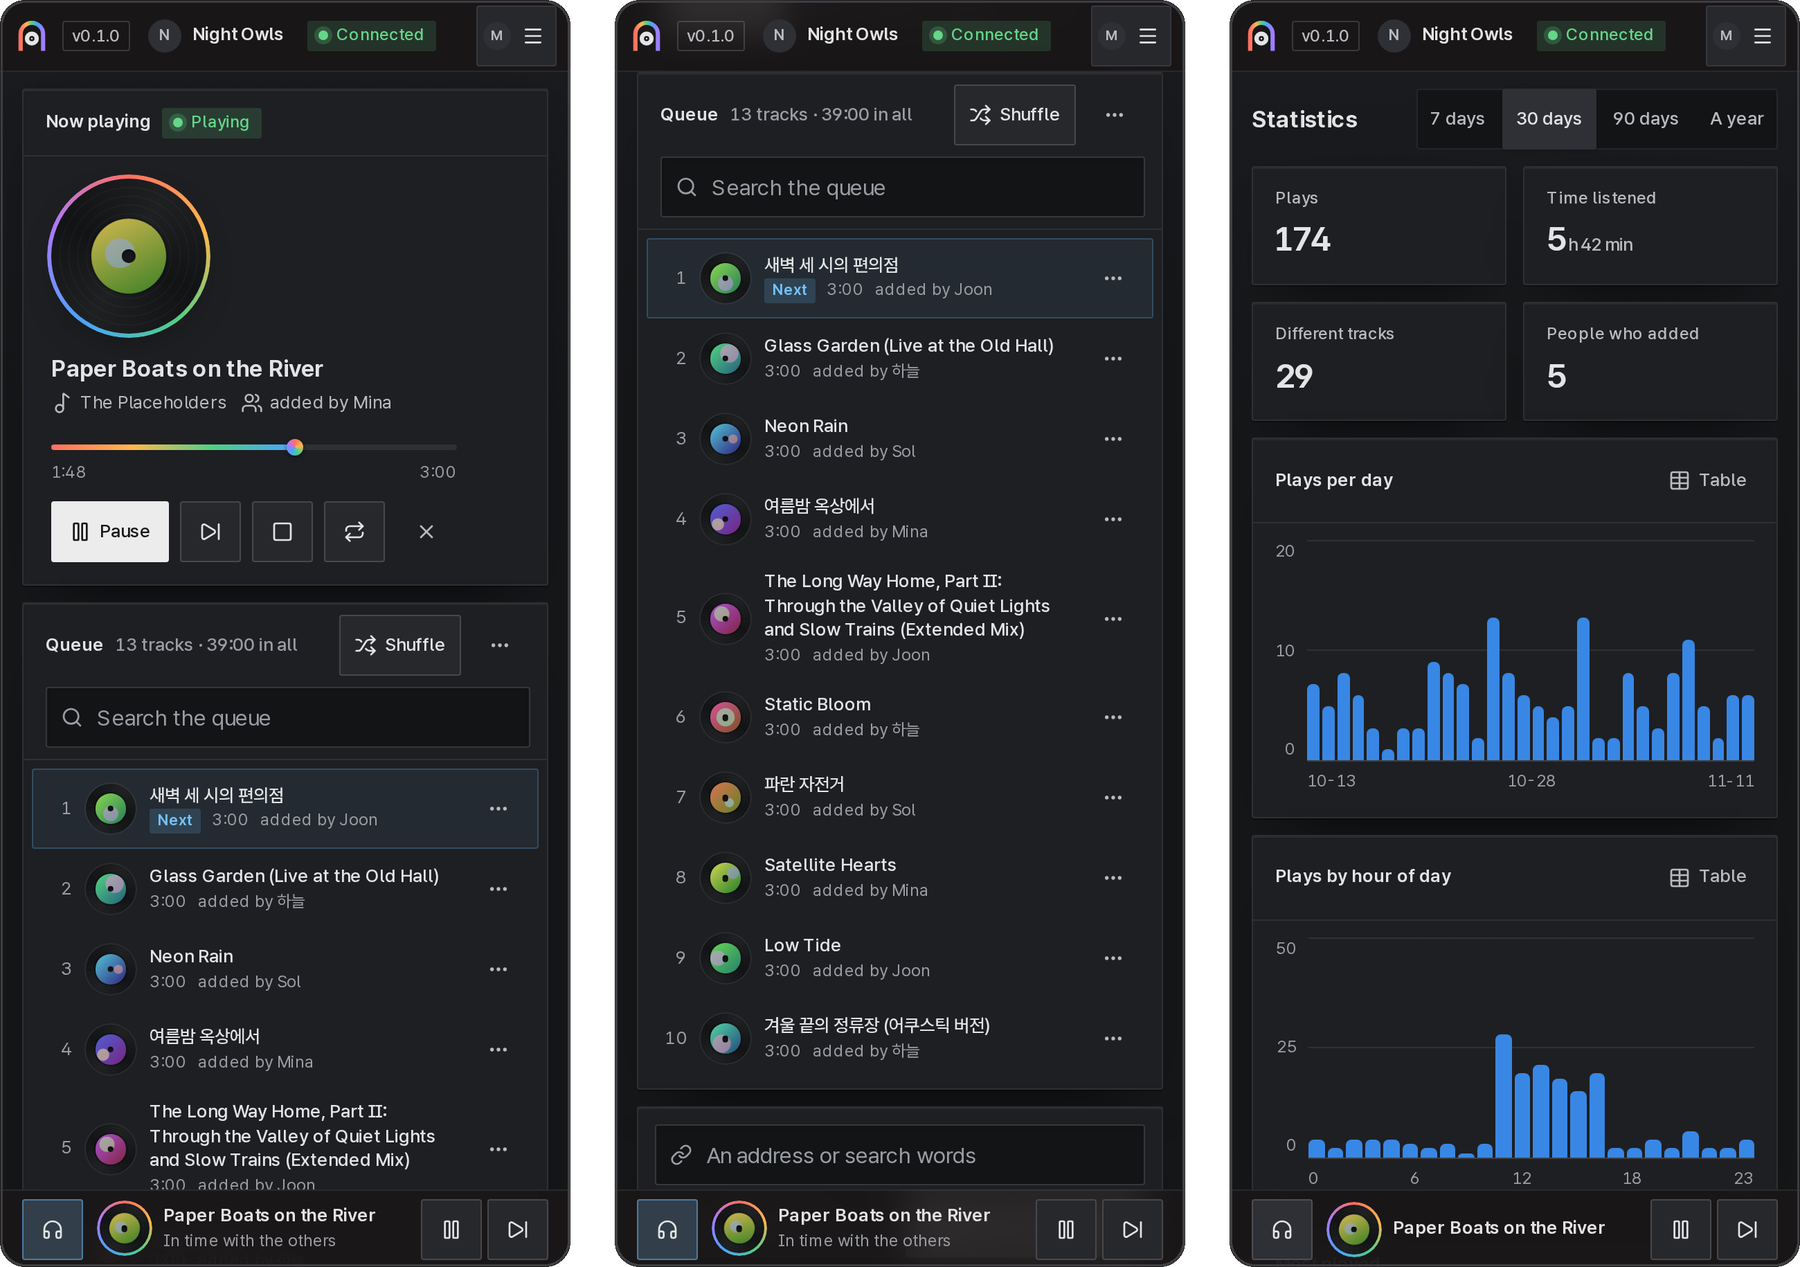
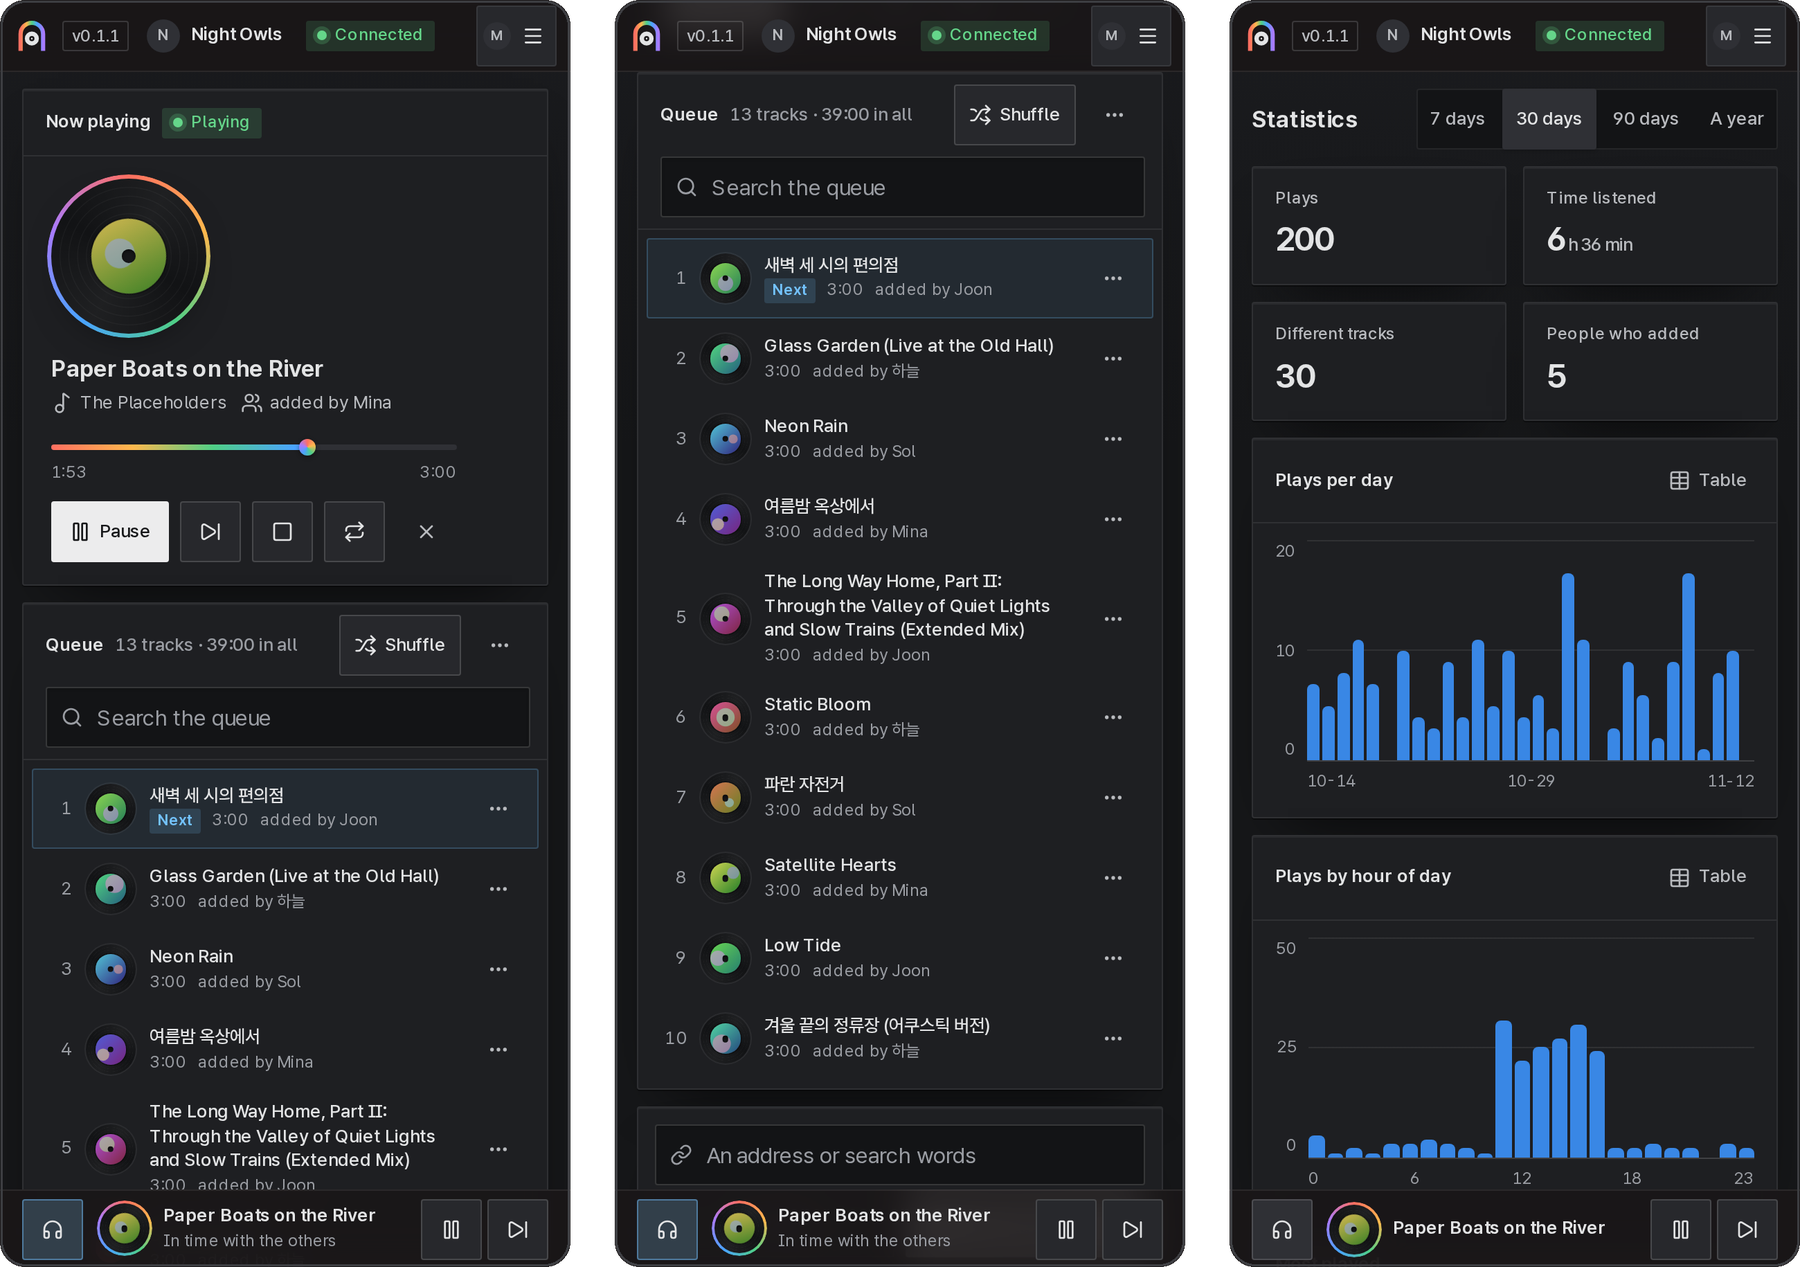
Release 0.1.1
The image half the size, the panel's first visit a seventh of what it was, live updates compressed, accessibility checked on every walk, and one server's work and failures kept from the others. CHANGELOG.md has the details.

diff --git a/src/version.ts b/src/version.ts
@@ -4,4 +4,4 @@
  * package.json, the Helm chart and the container image carry the same number, and a packaging test fails when one
  * of them drifts from it. Releases follow Semantic Versioning; the tag that publishes one is `v` followed by this value.
  */
-export const VERSION = '0.1.0';
+export const VERSION = '0.1.1';

diff --git a/CHANGELOG.md b/CHANGELOG.md
@@ -6,6 +6,8 @@ All notable changes to jukecord are documented here. The format is based on
 
 ## [Unreleased]
 
+## [0.1.1] - 2026-11-12
+
 ### Changed
 
 - The image is half the size: 423 MB instead of 843 MB on disk, 145 MiB instead of 290 MiB to download (gzip). FFmpeg
@@ -26,7 +28,8 @@ All notable changes to jukecord are documented here. The format is based on
 ### Fixed
 
 - A track whose file cannot be read as it arrives (an MP4 with its index at the end, as some sites serve it) is
-  fetched whole and plays, instead of failing as "the downloaded audio is empty".
+  fetched whole, up to 512 MB and with its progress shown, and plays, instead of failing as "the downloaded audio is
+  empty".
 - Accessibility: the logo link has a name on phones, each page has one main landmark and one level-one heading, the
   menu's sheet is a valid dialog, the log can be scrolled from the keyboard, and the player's heading is not read out
   empty before the first state. The panel walk runs axe-core on the pages it photographs and fails on any rule broken.
@@ -35,8 +38,13 @@ All notable changes to jukecord are documented here. The format is based on
 - A part that fails while hearing about a change (a panel's message, a card) no longer keeps the others from hearing
   it, nor takes the process down with every server's music when the change came from a player's timer.
 - Audio files keep their day-long browser cache; the panel files' "no-cache" had replaced it.
-- A track fetched whole after the stream could not be read: a time limit or a cancel says so, the download shows its
-  progress, a file over 512 MB is not fetched, and what yt-dlp leaves beside the file is removed.
+
+### Security
+
+- The image's FFmpeg has only the four libraries it needs (Opus, LAME, OpenSSL and zlib) instead of the libraries of
+  every codec and device that Debian's package brings, so much less code reads the media sites send. Debian's updates
+  no longer reach it by themselves: a weekly check fails when a newer FFmpeg release of its line is out, and a patch
+  release of jukecord brings it.
 
 ## [0.1.0] - 2026-11-12
 
@@ -94,5 +102,6 @@ Hardened before the release, after a review of the web side, the fetching and th
 - Everything jukecord writes is readable by its own user only, and a database copied in with a looser mode is made so
   again when it is opened.
 
-[Unreleased]: https://github.com/kanggu12/jukecord/compare/v0.1.0...HEAD
+[Unreleased]: https://github.com/kanggu12/jukecord/compare/v0.1.1...HEAD
+[0.1.1]: https://github.com/kanggu12/jukecord/compare/v0.1.0...v0.1.1
 [0.1.0]: https://github.com/kanggu12/jukecord/releases/tag/v0.1.0

diff --git a/docs/OFFLINE.md b/docs/OFFLINE.md
@@ -27,8 +27,8 @@ gunzip -c jukecord.tar.gz | docker load
 
 `compose.yaml` uses `jukecord:local` by default, so `./jukecord up` uses the loaded image without building.
 
-A released image works the same way: `docker pull ghcr.io/kanggu12/jukecord:0.1.0` on the machine with access, save
-and load it as above, and set `JUKECORD_IMAGE=ghcr.io/kanggu12/jukecord:0.1.0` in `.env`. The image is built for amd64
+A released image works the same way: `docker pull ghcr.io/kanggu12/jukecord:0.1.1` on the machine with access, save
+and load it as above, and set `JUKECORD_IMAGE=ghcr.io/kanggu12/jukecord:0.1.1` in `.env`. The image is built for amd64
 and arm64; to carry it to a machine of the other kind, pull it with `--platform linux/arm64` (or `linux/amd64`).
 
 ## On Kubernetes without the internet
@@ -37,14 +37,14 @@ Fetch the chart and the image where there is access, and put the image in a regi
 
 ```bash
 # on a machine with access
-helm pull oci://ghcr.io/kanggu12/charts/jukecord --version 0.1.0
-docker pull ghcr.io/kanggu12/jukecord:0.1.0
-docker save ghcr.io/kanggu12/jukecord:0.1.0 | gzip > jukecord-image.tar.gz
+helm pull oci://ghcr.io/kanggu12/charts/jukecord --version 0.1.1
+docker pull ghcr.io/kanggu12/jukecord:0.1.1
+docker save ghcr.io/kanggu12/jukecord:0.1.1 | gzip > jukecord-image.tar.gz
 # inside, where the cluster's registry is
 gunzip -c jukecord-image.tar.gz | docker load
-docker tag ghcr.io/kanggu12/jukecord:0.1.0 registry.example.internal/jukecord:0.1.0
-docker push registry.example.internal/jukecord:0.1.0
-helm install jukecord ./jukecord-0.1.0.tgz -n jukecord --create-namespace \
+docker tag ghcr.io/kanggu12/jukecord:0.1.1 registry.example.internal/jukecord:0.1.1
+docker push registry.example.internal/jukecord:0.1.1
+helm install jukecord ./jukecord-0.1.1.tgz -n jukecord --create-namespace \
   --set image.repository=registry.example.internal/jukecord
 ```
 

diff --git a/README.md b/README.md
@@ -12,7 +12,7 @@
 
 <p align="center">
   <a href="https://github.com/kanggu12/jukecord/actions/workflows/ci.yml"><img alt="CI" src="https://github.com/kanggu12/jukecord/actions/workflows/ci.yml/badge.svg"></a>
-  <a href="https://github.com/kanggu12/jukecord/releases"><img alt="Release v0.1.0" src="docs/assets/badges/release.svg"></a>
+  <a href="https://github.com/kanggu12/jukecord/releases"><img alt="Release v0.1.1" src="docs/assets/badges/release.svg"></a>
   <a href="LICENSE"><img alt="License: MIT" src="docs/assets/badges/license.svg"></a>
   <img alt="Runs on amd64 and arm64" src="docs/assets/badges/platforms.svg">
 </p>

diff --git a/docs/INSTALL.md b/docs/INSTALL.md
@@ -31,7 +31,7 @@ The front door's other commands:
 | `./jukecord down`                  | stops it; the data stays in the `jukecord-data` volume                                            |
 | `./jukecord <command>`             | the [jukecord command](README.md#the-jukecord-command): `np`, `add`, `token create` ...           |
 
-To use a released image instead of building one, set `JUKECORD_IMAGE=ghcr.io/kanggu12/jukecord:0.1.0` in `.env`.
+To use a released image instead of building one, set `JUKECORD_IMAGE=ghcr.io/kanggu12/jukecord:0.1.1` in `.env`.
 
 ### Friends on other machines
 
